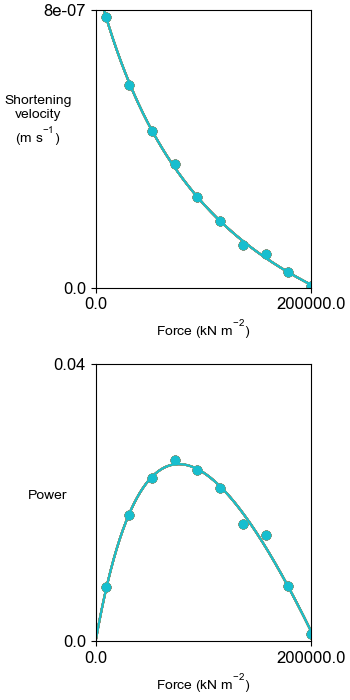
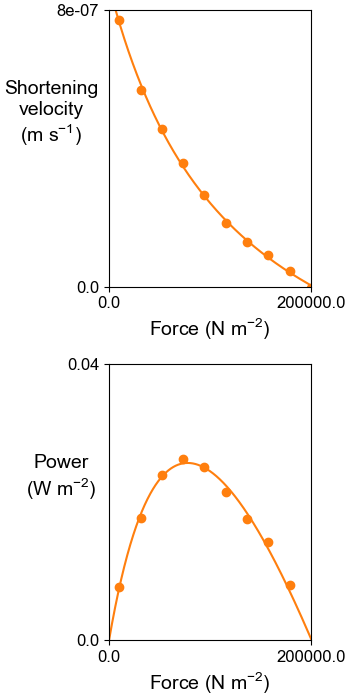
Minor updates to analyses.py and web documentation

diff --git a/code/FiberPy/FiberPy/package/modules/display/analyses.py b/code/FiberPy/FiberPy/package/modules/display/analyses.py
@@ -393,25 +393,25 @@ def create_fv_and_power_figure(fig_data, batch_file_string):
         ax_pow = fig.add_subplot(gs[1, 0])
 
         # Cycle through curves
-        for c in r['curve']:
+        for c in range(1, curve_counter):
             rc = r[r['curve'] == c]
 
             # Plot the force velocity curve
-            ax_fv.plot(rc['hs_force'], rc['hs_velocity'], 'o')
+            ax_fv.plot(rc['hs_force'], rc['hs_velocity'], 'o', color = formatting['color_set'][c - 1])
             fv_curve = cv.fit_hyperbola(rc['hs_force'], rc['hs_velocity'])
             ax_fv.plot(fv_curve['x_fit'], fv_curve['y_fit'], '-',
                        color=ax_fv.lines[-1].get_color())
 
-            ax_pow.plot(rc['hs_force'], rc['hs_power'], 'o')
+            ax_pow.plot(rc['hs_force'], rc['hs_power'], 'o', color = formatting['color_set'][c - 1])
             pow_curve = cv.fit_power_curve(rc['hs_force'], rc['hs_power'])
             ax_pow.plot(pow_curve['x_fit'], pow_curve['y_fit'], '-',
                         color=ax_pow.lines[-1].get_color())
 
         # Tidy up
-        ax_fv.set_xlabel('Force (kN m$\\mathregular{^{-2}}$)',
+        ax_fv.set_xlabel('Force (N m$^{\\mathregular{-2}}$)',
                           fontfamily=formatting['fontname'],
                           loc='center')
-        ax_fv.set_ylabel('Shortening\nvelocity\n(m s$\\mathregular{^{-1}}$)',
+        ax_fv.set_ylabel('Shortening\nvelocity\n(m s$^{\\mathregular{-1}}$)',
                           fontfamily=formatting['fontname'],
                           loc='center',
                           rotation=formatting['y_label_rotation'])
@@ -428,10 +428,10 @@ def create_fv_and_power_figure(fig_data, batch_file_string):
                           fontsize=formatting['tick_labels_fontsize'],
                           fontfamily=formatting['fontname'])
 
-        ax_pow.set_xlabel('Force (kN m$\\mathregular{^{-2}}$)',
+        ax_pow.set_xlabel('Force (N m$^{\\mathregular{-2}}$)',
                           fontfamily=formatting['fontname'],
                           loc='center')
-        ax_pow.set_ylabel('Power',
+        ax_pow.set_ylabel('Power\n(W m$^{\\mathregular{-2}}$)',
                           fontfamily=formatting['fontname'],
                           loc='center',
                           rotation=formatting['y_label_rotation'])
@@ -553,7 +553,7 @@ def create_ktr_figure(fig_data, batch_file_string):
         ax_ktr = fig.add_subplot(gs[0,0])
 
         # Cycle through curves
-        for c in r['curve']:
+        for c in range(1, curve_counter):
             rc = r[r['curve'] == c]
 
             # Plot the ktr curve
@@ -648,9 +648,9 @@ def superpose_ktr_plots(fig_data, batch_file_string):
 
         # pCa
 
-        axs[0].plot(x, d['pCa'], color = "black")
+        axs[0].plot(x, d['pCa'], color = formatting['color_set'][i])
 
-        # HSL length + commande
+        # HSL length + command
 
         axs[1].plot(x, d['hs_length'], color = "black")
         axs[1].plot(x, d['hs_command_length'], color = "tab:orange", linestyle='--')

diff --git a/docs/pages/demos/k_tr/multiple_trials/k_tr_multiple_trials.md b/docs/pages/demos/k_tr/multiple_trials/k_tr_multiple_trials.md
@@ -52,11 +52,11 @@ All of the results from the simulation are written to files in `<FiberSim_dir>/d
 
 Each `*.txt` files contains the summary data for a given simulation.
 
-The `*.png` files show a summary figure.
+Each `*.png` file shows a summary figure.
 
-If you opened the text files and plotted the results on a single group of axes, you would see a figure that looked like this.
+The `superposed_summary.png` file is a figure showing the results plotted on a single group of axes.
 
-<img src="superposed.png" width="50%">
+<img src="superposed_summary.png" width="50%">
 
 ## How this worked
 
@@ -66,54 +66,63 @@ The simulations are initiated using the [batch file](../../../structures/batch/b
 
 ````
 {
-    "FiberSim_batch": {
-        "FiberCpp_exe":
+  "FiberSim_batch": {
+    "FiberCpp_exe": {
+      "relative_to": "this_file",
+      "exe_file": "../../../bin/FiberCpp.exe"
+    },
+    "job": [
+      {
+        "relative_to": "this_file",
+        "model_file": "sim_input/model.json",
+        "options_file": "sim_input/options.json",
+        "protocol_file": "sim_input/protocol_0.txt",
+        "results_file": "sim_output/results_0.txt",
+        "output_handler_file": "sim_input/output_handler_0.json"
+      },
+      {
+        "relative_to": "this_file",
+        "model_file": "sim_input/model.json",
+        "options_file": "sim_input/options.json",
+        "protocol_file": "sim_input/protocol_1.txt",
+        "results_file": "sim_output/results_1.txt",
+        "output_handler_file": "sim_input/output_handler_1.json"
+      },
+      {
+        "relative_to": "this_file",
+        "model_file": "sim_input/model.json",
+        "options_file": "sim_input/options.json",
+        "protocol_file": "sim_input/protocol_2.txt",
+        "results_file": "sim_output/results_2.txt",
+        "output_handler_file": "sim_input/output_handler_2.json"
+      },
+      {
+        "relative_to": "this_file",
+        "model_file": "sim_input/model.json",
+        "options_file": "sim_input/options.json",
+        "protocol_file": "sim_input/protocol_3.txt",
+        "results_file": "sim_output/results_3.txt",
+        "output_handler_file": "sim_input/output_handler_3.json"
+      },
+      {
+        "relative_to": "this_file",
+        "model_file": "sim_input/model.json",
+        "options_file": "sim_input/options.json",
+        "protocol_file": "sim_input/protocol_4.txt",
+        "results_file": "sim_output/results_4.txt",
+        "output_handler_file": "sim_input/output_handler_4.json"
+      }
+    ],
+    "batch_figures": {
+
+      "superpose_ktr_plots": [
         {
-            "relative_to": "this_file",
-            "exe_file": "../../../bin/FiberCpp.exe"
-        },
-        "job":[
-            {
-                "relative_to": "this_file",
-                "model_file": "sim_input/model.json",
-                "options_file": "sim_input/options.json",
-                "protocol_file": "sim_input/protocol_0.txt",
-                "results_file": "sim_output/results_0.txt",
-                "output_handler_file": "sim_input/output_handler_0.json"
-            },
-            {
-                "relative_to": "this_file",
-                "model_file": "sim_input/model.json",
-                "options_file": "sim_input/options.json",
-                "protocol_file": "sim_input/protocol_1.txt",
-                "results_file": "sim_output/results_1.txt",
-                "output_handler_file": "sim_input/output_handler_1.json"
-            },
-            {
-                "relative_to": "this_file",
-                "model_file": "sim_input/model.json",
-                "options_file": "sim_input/options.json",
-                "protocol_file": "sim_input/protocol_2.txt",
-                "results_file": "sim_output/results_2.txt",
-                "output_handler_file": "sim_input/output_handler_2.json"
-            },
-            {
-                "relative_to": "this_file",
-                "model_file": "sim_input/model.json",
-                "options_file": "sim_input/options.json",
-                "protocol_file": "sim_input/protocol_3.txt",
-                "results_file": "sim_output/results_3.txt",
-                "output_handler_file": "sim_input/output_handler_3.json"
-            },
-            {
-                "relative_to": "this_file",
-                "model_file": "sim_input/model.json",
-                "options_file": "sim_input/options.json",
-                "protocol_file": "sim_input/protocol_4.txt",
-                "results_file": "sim_output/results_4.txt",
-                "output_handler_file": "sim_input/output_handler_4.json"
-            }
-        ]
+          "relative_to": "this_file",
+          "results_folder": "sim_output",
+          "output_image_file_string": "sim_output/superposed_summary.png"
+        }
+      ]
     }
+  }
 }
 ````
